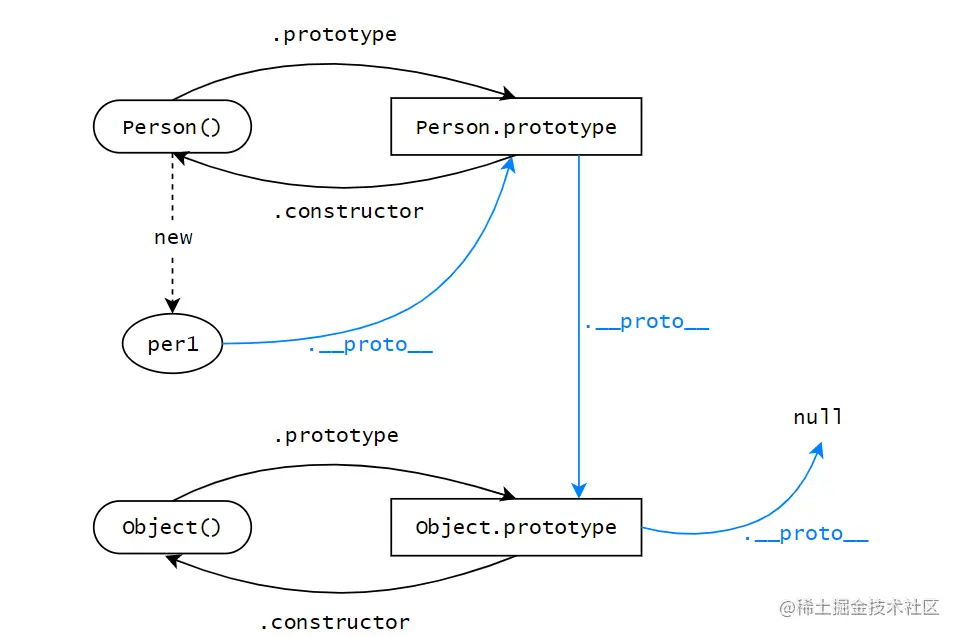
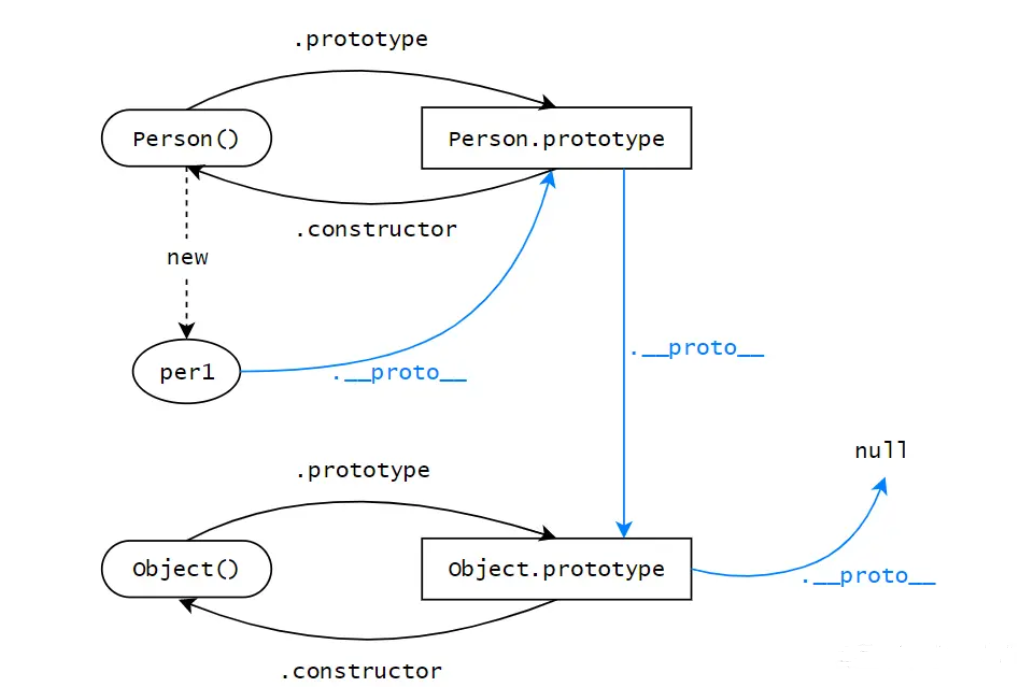
完善 JavaScript 类型转换部分内容

diff --git a/docs/JavaScript/index.md b/docs/JavaScript/index.md
@@ -135,6 +135,24 @@ JavaScript 中，类型转换只有三种：
 2. 转换成布尔值
 3. 转换成字符串
 
+> 经典类型面试题
+
+```js
+console.log([] == ![]); // true
+```
+
+代码分析：
+
+1. 左侧是一个对象(数组)
+2. 右侧是一个布尔值，对象`[]`转换成布尔值 `true`，因为除了 `null` 所有对象都转换成布尔值，所以`![]`结果为 `false`
+3. 此时相当于`对象==布尔值`，依据类型转换规则，转换成数字类型进行比较
+4. 对象(空数组)转换成 `0`，布尔值 `false` 转换成 `0`
+5. 即 `0==0`，返回 `true`
+
+类型转换规则:
+
+![JavaScript 类型转换](/image/JavaScript/type-conversion.png)
+
 ### `0.1 + 0.2 !== 0.3`
 
 ```js
@@ -192,7 +210,7 @@ console.log(instance.getFatherValue()); //true
 
 这里借用下图解示例：
 
-![alt text](/image/JavaScript/prototype.png)
+![JavaScript 原型链](/image/JavaScript/prototype.png)
 
 ### 确定原型和实例的关系
 
